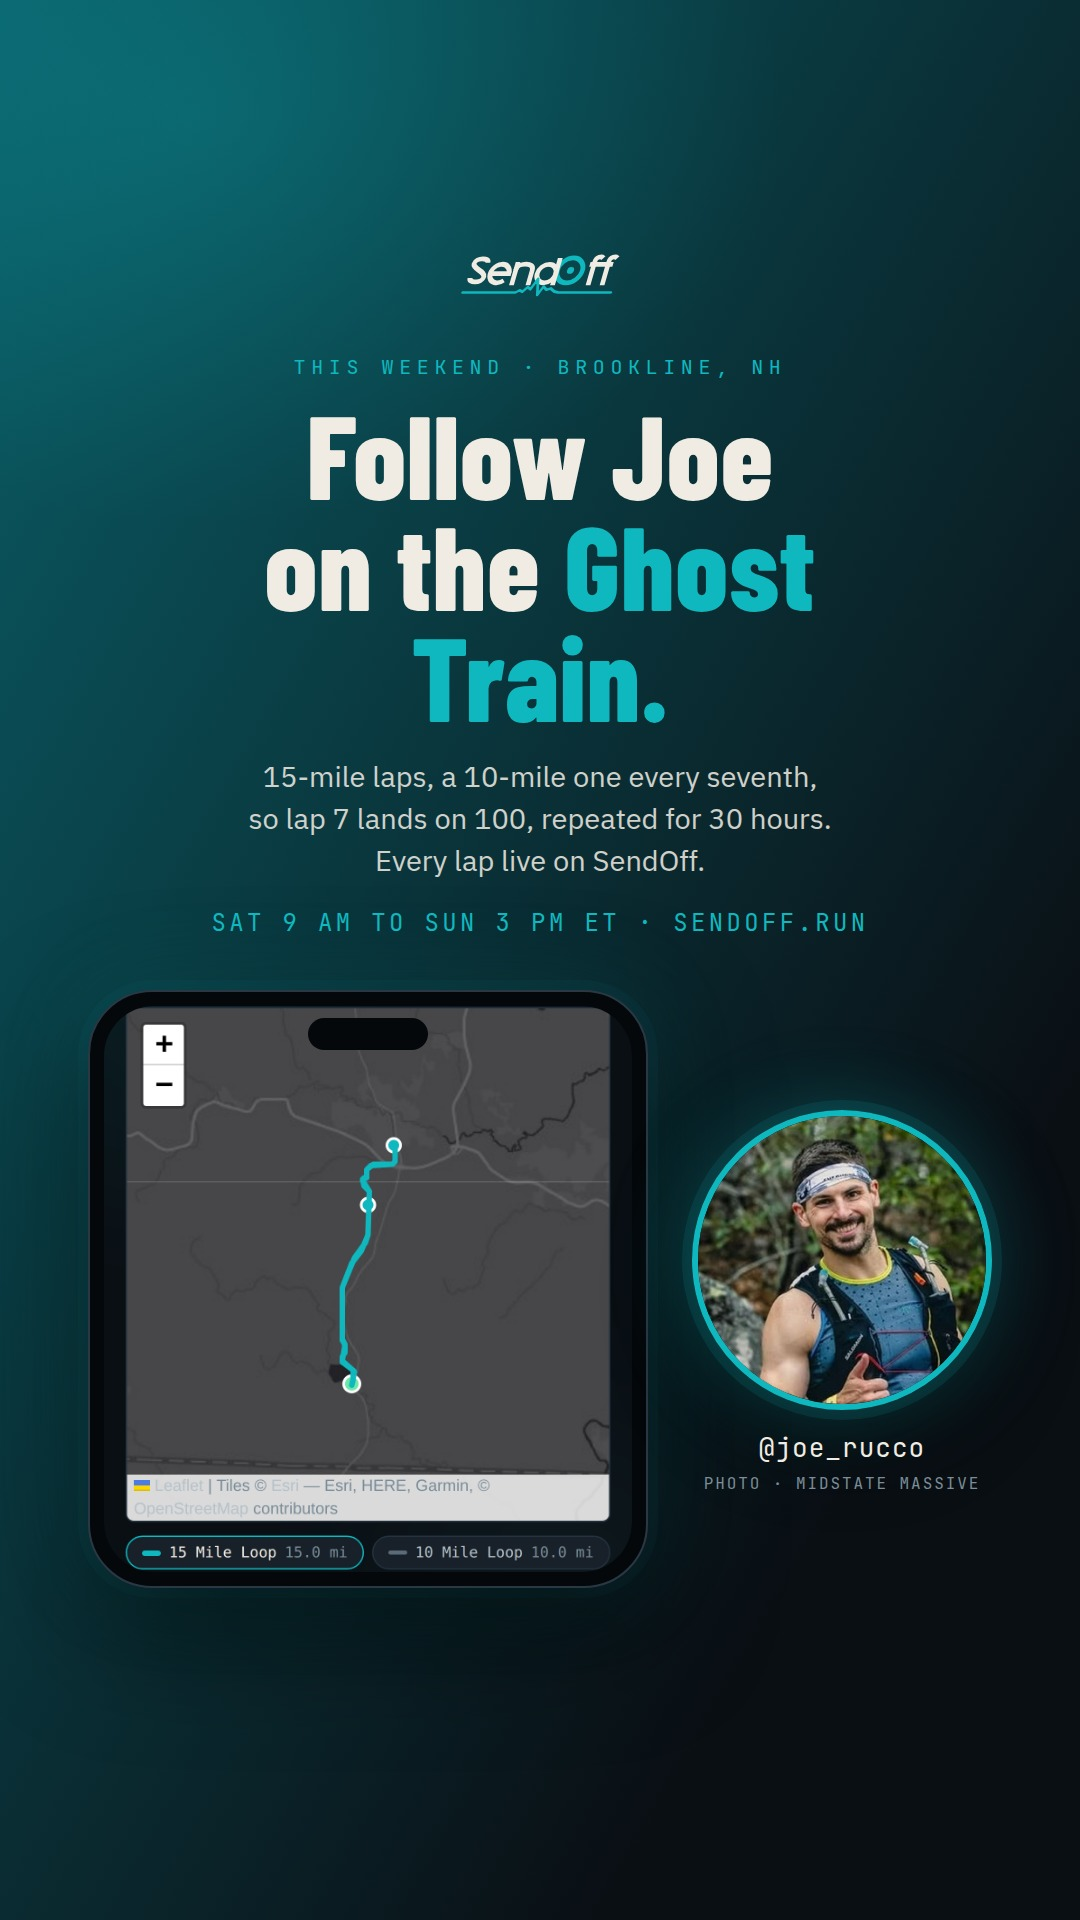
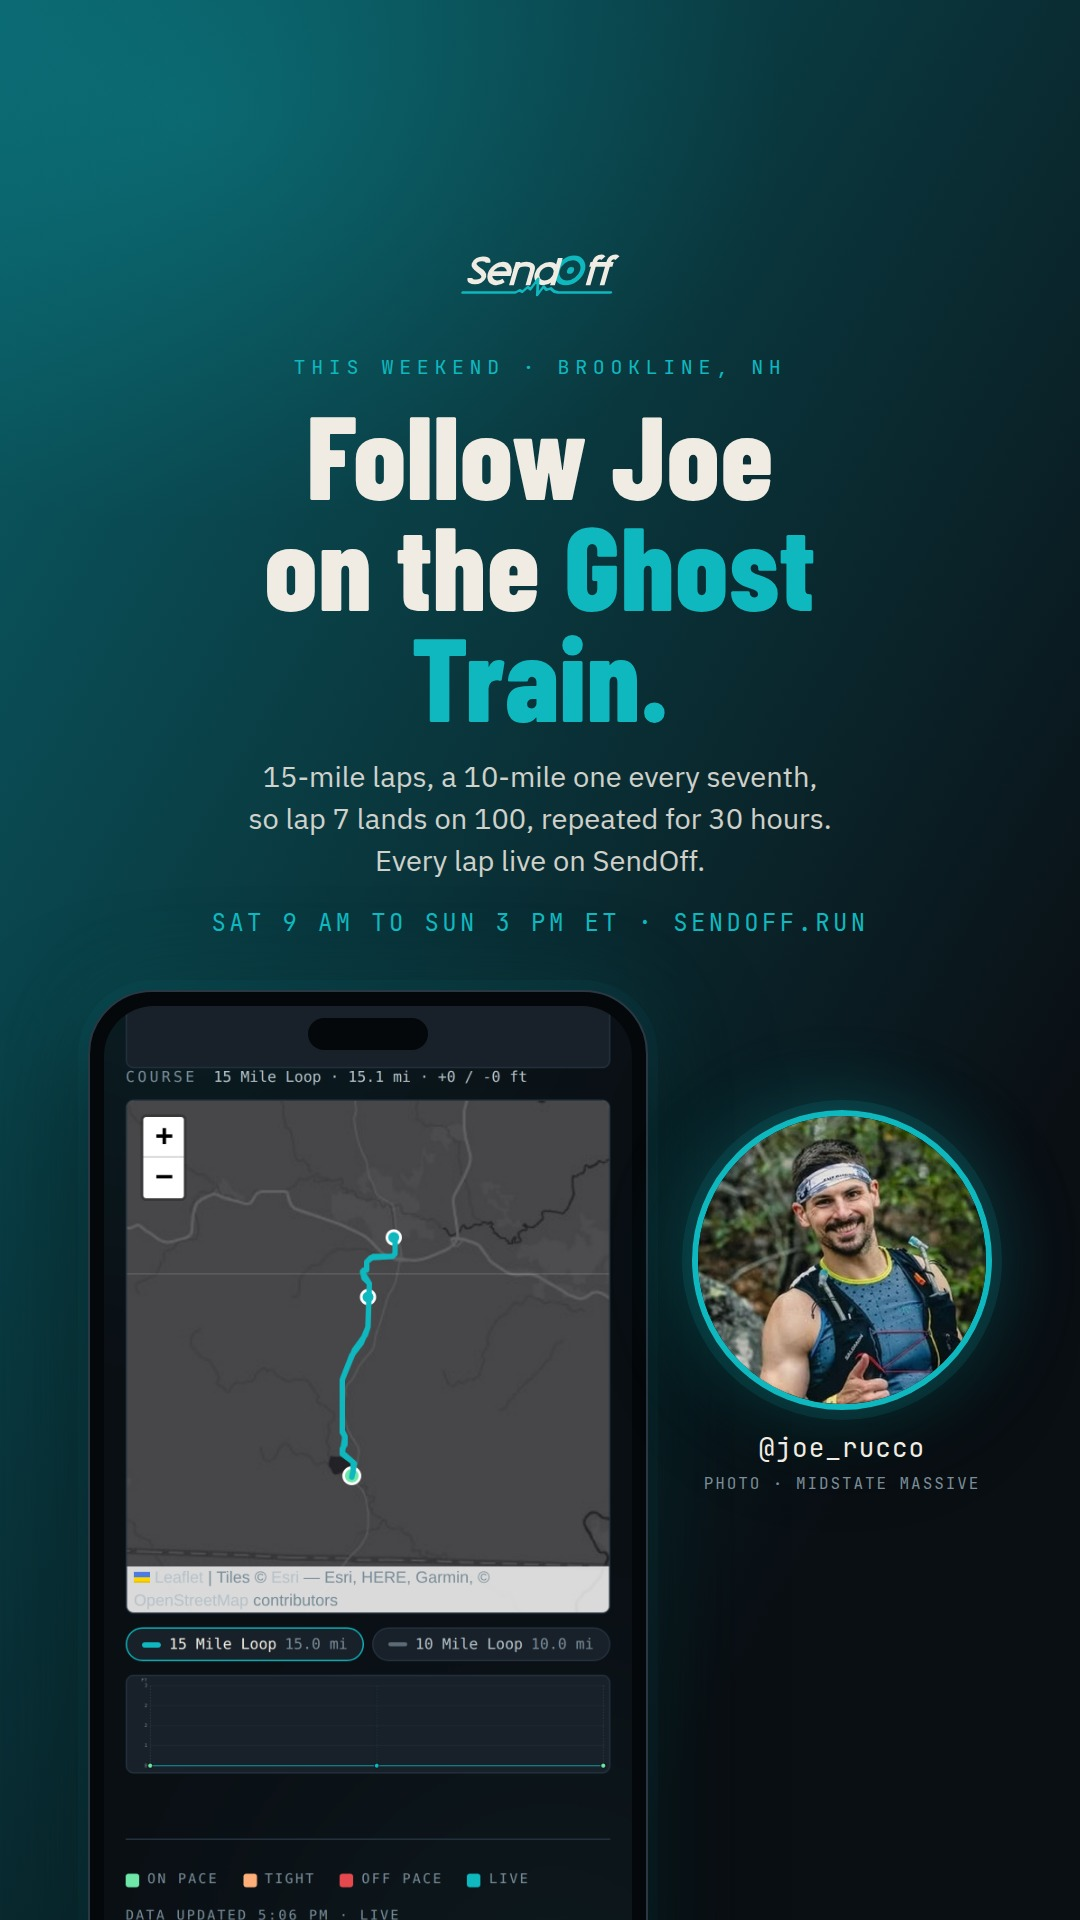
Ghost Train story: the phone runs off the bottom, as in the post
The map shot is taken taller, down to the foot of the race page, and the
story shows it from just above the course heading, so the phone runs past
the bottom edge instead of ending above it.

Claude-Session: https://claude.ai/code/session_01EWRjYYN5ZDLhgR1pme87tD

diff --git a/brand/social/stories.html b/brand/social/stories.html
@@ -110,10 +110,10 @@
     <p class="lead" style="max-width:40ch;text-wrap:balance">15-mile laps, a 10-mile one every seventh, so lap 7 lands on 100, repeated for 30 hours.<br>Every lap live on SendOff.</p>
     <p class="when">Sat 9 AM to Sun 3 PM ET · sendoff.run</p>
   </div>
-  <!-- From the map down to the loop chips: the course heading above it sits
-       under the phone's notch. -->
+  <!-- From just above the course heading to the foot of the page, so the
+       phone runs off the bottom as it does in the post. -->
   <figure class="portrait" style="top:1110px"><img src="photos/joe-rucco-bust.jpg" alt=""><figcaption>@joe_rucco<small>Photo · Midstate Massive</small></figcaption></figure>
-  <div class="phone"><img src="shots/ghost-train-map.png" alt="" style="object-fit:cover;object-position:50% 58%;aspect-ratio:1170/1255"></div>
+  <div class="phone"><img src="shots/ghost-train-map.png" alt="" style="object-fit:cover;object-position:50% 100%;aspect-ratio:1170/2214"></div>
 </section>
 
 <template id="wm-src"><svg role="img" aria-label="SendOff" xmlns="http://www.w3.org/2000/svg" width="3059" height="1066" viewBox="-130 -130 3781.0 1317.6"><title>SendOff</title><g transform="translate(0,700) skewX(-16.0) translate(0,-700)"><g><g transform="translate(2006.0,0)"><circle cx="350.0" cy="350.0" r="294.0" fill="none" stroke="var(--wm-signal, #0FB8BF)" stroke-width="112" /></g></g><circle cx="2370.0" cy="350.0" r="80" fill="var(--wm-signal, #0FB8BF)" /><g transform="translate(0.0,0)"><path d="M 374.0 168 C 374.0 44 56.0 44 56.0 190 C 56.0 322 374.0 368 374.0 506 C 374.0 656 56.0 656 56.0 528" fill="none" stroke="var(--wm-letter, #F0ECE3)" stroke-width="112" stroke-linecap="butt" stroke-linejoin="round" /></g><g transform="translate(446.0,0)"><path d="M 56.0 425.0 L 544.24 425.0" fill="none" stroke="var(--wm-letter, #F0ECE3)" stroke-width="112" stroke-linecap="butt" stroke-linejoin="round" /><path d="M 489.41 469.6 A 219.0 219.0 0 1 0 419.5 589.2" fill="none" stroke="var(--wm-letter, #F0ECE3)" stroke-width="112" stroke-linecap="butt" stroke-linejoin="round" /></g><g transform="translate(1024.0,0)"><path d="M 56.0 700 L 56.0 150" fill="none" stroke="var(--wm-letter, #F0ECE3)" stroke-width="112" stroke-linecap="butt" stroke-linejoin="round" /><path d="M 56.0 340 C 56.0 158 444.0 158 444.0 340 L 444.0 700" fill="none" stroke="var(--wm-letter, #F0ECE3)" stroke-width="112" stroke-linecap="butt" stroke-linejoin="round" /></g><g transform="translate(1552.0,0)"><circle cx="275.0" cy="425.0" r="219.0" fill="none" stroke="var(--wm-letter, #F0ECE3)" stroke-width="112" /><path d="M 494.0 56.0 L 494.0 700" fill="none" stroke="var(--wm-letter, #F0ECE3)" stroke-width="112" stroke-linecap="butt" stroke-linejoin="round" /></g><g transform="translate(2730.0,0)"><path d="M 152.0 700 L 152.0 150 C 152.0 34 264 6 332.0 62" fill="none" stroke="var(--wm-letter, #F0ECE3)" stroke-width="112" stroke-linecap="butt" stroke-linejoin="round" /><path d="M 482.0 700 L 482.0 150 C 482.0 34 594 6 662.0 62" fill="none" stroke="var(--wm-letter, #F0ECE3)" stroke-width="112" stroke-linecap="butt" stroke-linejoin="round" /><path d="M 56.0 208 L 600.0 208" fill="none" stroke="var(--wm-letter, #F0ECE3)" stroke-width="112" stroke-linecap="butt" stroke-linejoin="round" /></g><path d="M -20.0 870.0 L 1224.0 870.0 L 1304.0 818.8 L 1384.0 850.8 L 1474.0 742.0 L 1554.0 793.2 L 1664.0 550.0 L 1754.0 927.6 L 1844.0 729.2 L 1934.0 806.0 L 2024.0 774.0 L 2124.0 844.4 L 2224.0 870.0 L 3468.0 870.0" fill="none" stroke="var(--wm-signal, #0FB8BF)" stroke-width="62.7" stroke-linecap="round" stroke-linejoin="round" /></g></svg></template>
